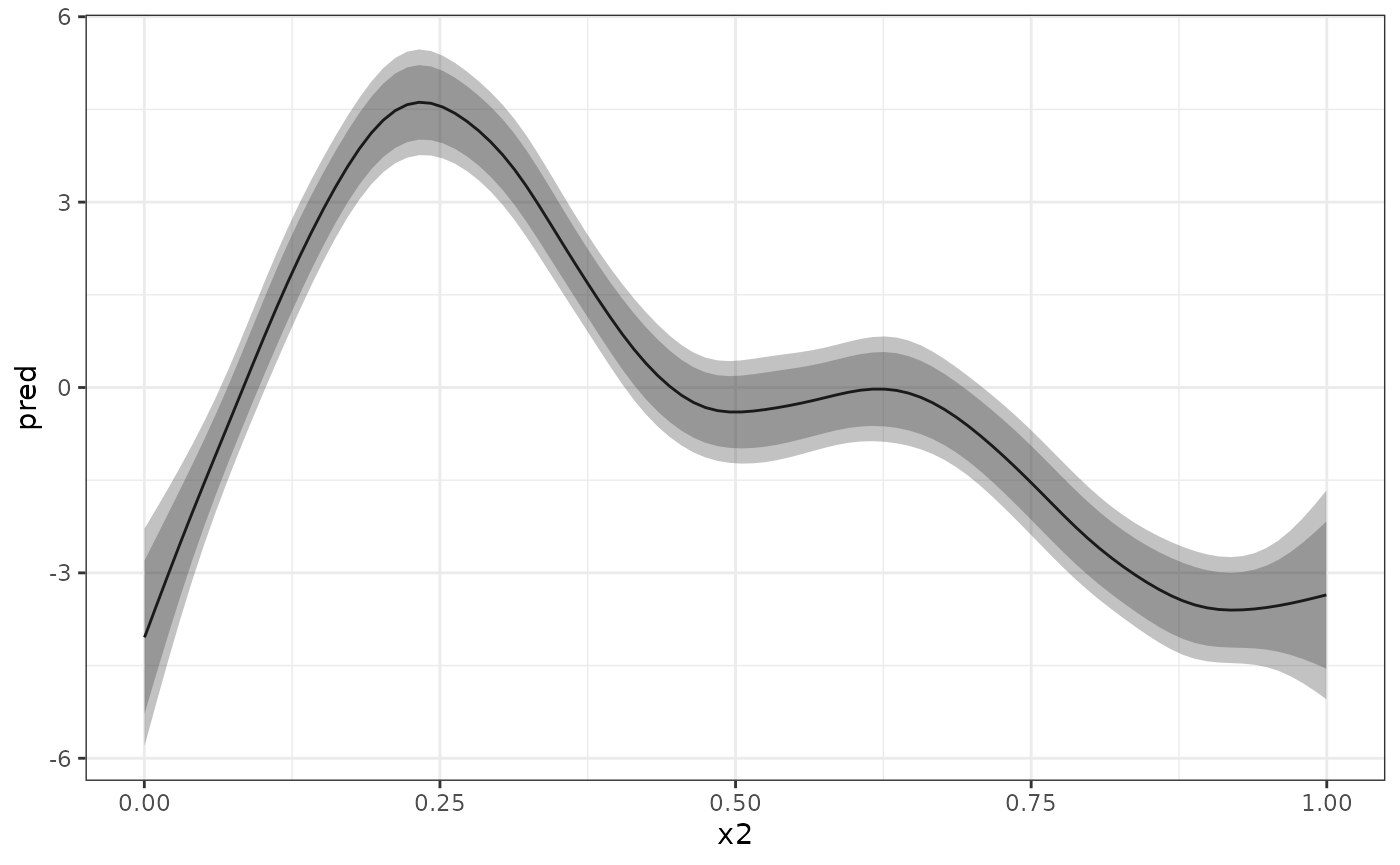
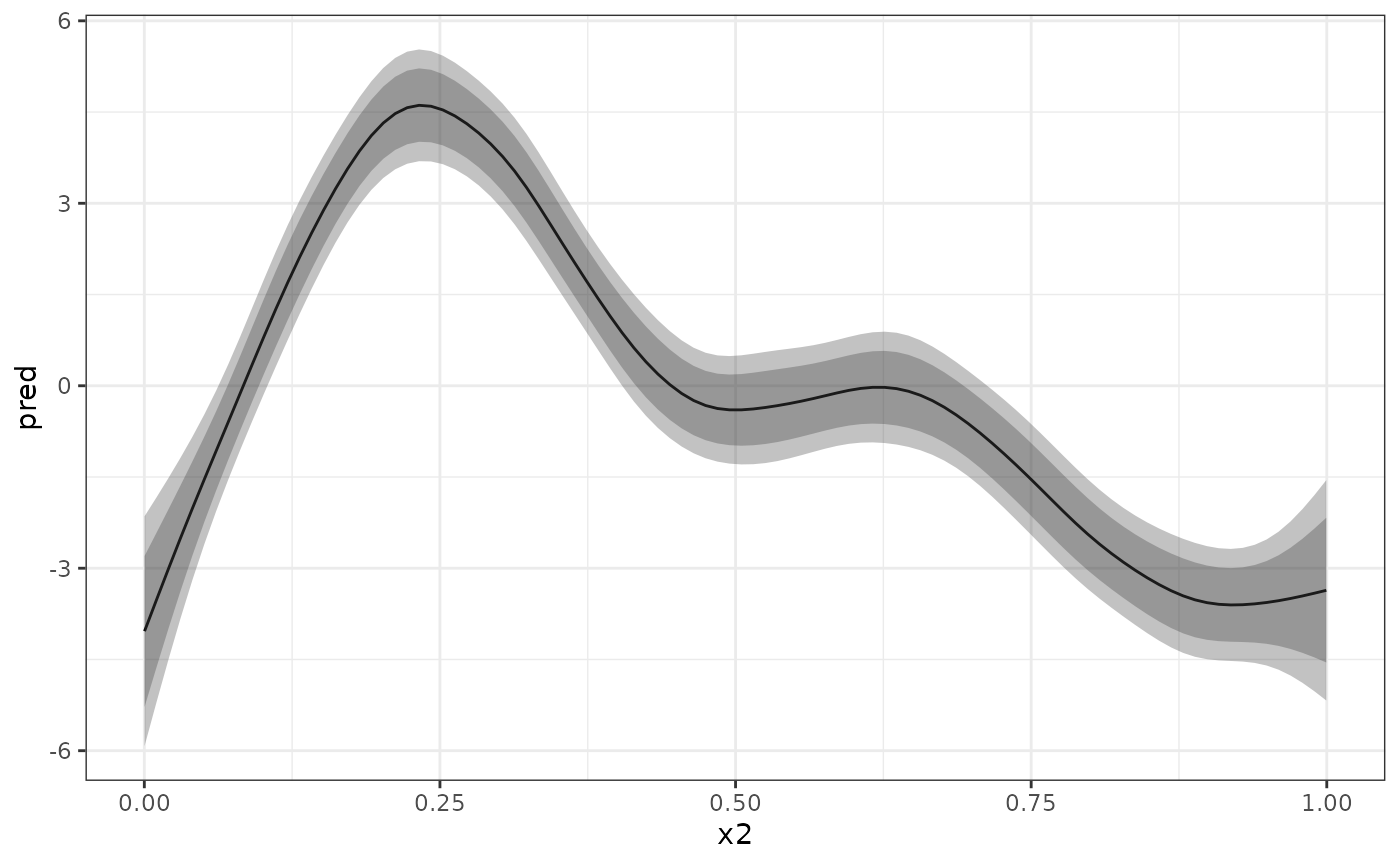
Built site for metagam: 0.3.1.9000@44d6e2a

diff --git a/reference/metagam.html b/reference/metagam.html
@@ -161,62 +161,70 @@
     <colgroup><col class="name" /><col class="desc" /></colgroup>
     <tr>
       <th>models</th>
-      <td><p>List of generalized additive models, each of which has been returned
-by <code><a href='strip_rawdata.html'>strip_rawdata</a></code>. If the list is named, the names will be used in the output.</p></td>
+      <td><p>List of generalized additive models, each of which has been
+returned by <code><a href='strip_rawdata.html'>strip_rawdata</a></code>. If the list is named, the names
+will be used in the output.</p></td>
     </tr>
     <tr>
       <th>grid</th>
-      <td><p>Grid of values of the explanatory variables over which to compute the
-estimated smooth terms. Defaults to <code>NULL</code>, which means that a grid is set up
-for the smooth terms defined by the <code>terms</code> argument, with length given by
-<code>grid_size</code> for numeric variables and a single value of each factor variable.</p></td>
+      <td><p>Grid of values of the explanatory variables over which to compute
+the estimated smooth terms. Defaults to <code>NULL</code>, which means that a
+grid is set up for the smooth terms defined by the <code>terms</code> argument,
+with length given by <code>grid_size</code> for numeric variables and a single
+value of each factor variable.</p></td>
     </tr>
     <tr>
       <th>grid_size</th>
-      <td><p>Numeric value giving the number of elements to use in the grid of explanatory
-variables when <code>grid=NULL</code>. When multiple terms are supplied, each combination of
-values of explanatory variables are generated, and the number of grid
-points becomes <code>grid_size</code> to the power of the number of terms.</p></td>
+      <td><p>Numeric value giving the number of elements to use in the
+grid of explanatory variables when <code>grid=NULL</code>. When multiple terms
+are supplied, each combination of values of explanatory variables are
+generated, and the number of grid points becomes <code>grid_size</code> to the
+power of the number of terms.</p></td>
     </tr>
     <tr>
       <th>type</th>
-      <td><p>Type of prediction to use. Defaults to <code>"iterms"</code>. Available options
-are <code>"iterms"</code>, <code>"link"</code>, and <code>"response"</code>. See the documentation
-of <code><a href='https://rdrr.io/pkg/mgcv/man/predict.gam.html'>mgcv::predict.gam</a></code> for details. Note that <code>type="terms"</code> is not supported,
-since it may result in estimated zero standard deviation for smooth terms.</p></td>
+      <td><p>Type of prediction to use. Defaults to <code>"iterms"</code>. Available
+options are <code>"iterms"</code>, <code>"link"</code>, and <code>"response"</code>. See the
+documentation of <code><a href='https://rdrr.io/pkg/mgcv/man/predict.gam.html'>mgcv::predict.gam</a></code> for details. Note that
+<code>type="terms"</code> is not supported, since it may result in estimated zero
+standard deviation for smooth terms.</p></td>
     </tr>
     <tr>
       <th>terms</th>
-      <td><p>Character vector of terms, smooth or parametric, to be included in function estimate.
-Only used if <code>type="iterms"</code>. Defaults to <code>NULL</code>, which means
-that the first smooth term when listed in alphabetic order is taken.</p></td>
+      <td><p>Character vector of terms, smooth or parametric, to be included
+in function estimate. Only used if <code>type="iterms"</code>. Defaults to
+<code>NULL</code>, which means that the first smooth term when listed in
+alphabetic order is taken.</p></td>
     </tr>
     <tr>
       <th>method</th>
-      <td><p>Method of meta analysis, passed on to <code><a href='https://wviechtb.github.io/metafor/reference/rma.uni.html'>metafor::rma.uni</a></code>. Defaults to <code>"FE"</code>. See the documentation to
-<code><a href='https://wviechtb.github.io/metafor/reference/rma.uni.html'>metafor::rma</a></code> for all available options.</p></td>
+      <td><p>Method of meta analysis, passed on to <code><a href='https://wviechtb.github.io/metafor/reference/rma.uni.html'>metafor::rma.uni</a></code>.
+Defaults to <code>"FE"</code>. See the documentation to <code><a href='https://wviechtb.github.io/metafor/reference/rma.uni.html'>metafor::rma</a></code> for
+all available options.</p></td>
     </tr>
     <tr>
       <th>nsim</th>
-      <td><p>Number of simulations to conduct in order to compute p-values and simultaneous
-confidence bands for the meta-analytic fit. Defaults to <code>NULL</code>, which means that no simulations
-are performed.</p></td>
+      <td><p>Number of simulations to conduct in order to compute p-values and
+simultaneous confidence bands for the meta-analytic fit. Defaults to
+<code>NULL</code>, which means that no simulations are performed.</p></td>
     </tr>
     <tr>
       <th>ci_alpha</th>
-      <td><p>Significance level for simultaneous confidence bands. Ignored if <code>nsim</code> is <code>NULL</code>, and defaults to 0.05.</p></td>
+      <td><p>Significance level for simultaneous confidence bands. Ignored
+if <code>nsim</code> is <code>NULL</code>, and defaults to 0.05.</p></td>
     </tr>
     <tr>
       <th>intercept</th>
-      <td><p>logical defining whether or not to include the intercept in each smooth
-term. Only applies when <code>type = "iterms"</code>.</p></td>
+      <td><p>Logical defining whether or not to include the intercept in
+each smooth term. Only applies when <code>type = "iterms"</code>.</p></td>
     </tr>
     <tr>
       <th>restrict_range</th>
-      <td><p>Character vector of explanatory variables to restrict such that only
-values within the range for each cohort contribute to the meta-analysis. Default to <code>NULL</code>,
-which means that each model contributes across the whole range specified by <code>grid</code>. Currently
-not implemented.</p></td>
+      <td><p>Character vector of explanatory variables to restrict
+such that only values within the range for each cohort contribute to the
+meta-analysis. Default to <code>NULL</code>, which means that each model
+contributes across the whole range specified by <code>grid</code>. Currently not
+implemented.</p></td>
     </tr>
     </table>
 
@@ -225,12 +233,13 @@ not implemented.</p></td>
     <p>An object of type metagam.</p>
     <h2 class="hasAnchor" id="details"><a class="anchor" href="#details"></a>Details</h2>
 
-    <p>It is currently assumed that all models have been fit with the same smooth terms,
-although they do not need to have the same basis functions or knot placement. Future versions
-will also include meta-analysis of parametric terms in the models.</p>
-<p>p-values are truncated below at 1e-16 before computing meta-analytic p-values
-to ensure that no values are identically zero, which would imply that the
-alternative hypothesis be true with no uncertainty.</p>
+    <p>It is currently assumed that all models have been fit with the same
+  smooth terms, although they do not need to have the same basis functions or
+  knot placement. Future versions will also include meta-analysis of
+  parametric terms in the models.</p>
+<p>p-values are truncated below at 1e-16 before computing meta-analytic
+  p-values to ensure that no values are identically zero, which would imply
+  that the alternative hypothesis be true with no uncertainty.</p>
 
     <h2 class="hasAnchor" id="examples"><a class="anchor" href="#examples"></a>Examples</h2>
     <pre class="examples"><span class='r-in'><span class='kw'><a href='https://rdrr.io/r/base/library.html'>library</a></span><span class='op'>(</span><span class='va'><a href='https://lifebrain.github.io/metagam/'>metagam</a></span><span class='op'>)</span></span>
@@ -272,7 +281,7 @@ alternative hypothesis be true with no uncertainty.</p>
 <span class='r-in'><span class='fu'><a href='https://rdrr.io/r/base/summary.html'>summary</a></span><span class='op'>(</span><span class='va'>meta_analysis</span><span class='op'>)</span></span>
 <span class='r-out co'><span class='r-pr'>#&gt;</span> Meta-analysis of GAMs from 5 cohorts, using method FE.</span>
 <span class='r-out co'><span class='r-pr'>#&gt;</span> </span>
-<span class='r-out co'><span class='r-pr'>#&gt;</span> Smooth terms analyzed: s(x0). P-value for smooth term: 0.0187 </span>
+<span class='r-out co'><span class='r-pr'>#&gt;</span> Smooth terms analyzed: s(x0). P-value for smooth term: 0.0782 </span>
 <span class='r-out co'><span class='r-pr'>#&gt;</span> </span>
 <span class='r-out co'><span class='r-pr'>#&gt;</span> </span>
 <span class='r-out co'><span class='r-pr'>#&gt;</span> </span>

diff --git a/news.html b/news.html
@@ -6,7 +6,7 @@
 <meta http-equiv="X-UA-Compatible" content="IE=edge">
 <meta name="viewport" content="width=device-width, initial-scale=1.0">
 
-<title>metagam version 0.3.1 • metagam</title>
+<title>metagam version 0.3.1.9000 • metagam</title>
 
 <!-- favicons -->
 <link rel="icon" type="image/png" sizes="16x16" href="favicon-16x16.png">
@@ -46,7 +46,7 @@
 
 
 
-<meta property="og:title" content="metagam version 0.3.1" />
+<meta property="og:title" content="metagam version 0.3.1.9000" />
 <meta property="og:image" content="/logo.png" />
 
 
@@ -133,12 +133,19 @@
 <div class="row">
   <div class="contents col-md-9">
     <div class="page-header">
-      <h1>metagam version 0.3.1</h1>
+      <h1>metagam version 0.3.1.9000</h1>
     </div>
 
 
-<div id="metagam-version-031" class="section level1">
+<div id="metagam-version-0319000" class="section level1">
 
+<ul>
+<li>Standard error of intercept is now included in simulations for p-values and simultaneous confidence intervals when type=“iterms”.</li>
+</ul>
+</div>
+<div id="metagam-version-031" class="section level1">
+<h1 class="hasAnchor">
+<a href="#metagam-version-031" class="anchor"></a>metagam version 0.3.1</h1>
 <ul>
 <li>‘knitr’ moved from Imports to Suggests.</li>
 </ul>

diff --git a/reference/getmasd.html b/reference/getmasd.html
@@ -143,7 +143,7 @@
     <p>This code is based on Dr. Gavin Simpson's blog post https://fromthebottomoftheheap.net/2016/12/15/simultaneous-interval-revisited/.</p>
     </div>
 
-    <pre class="usage"><span class='fu'>getmasd</span><span class='op'>(</span><span class='va'>mod</span>, <span class='va'>grid</span>, <span class='va'>nmc</span>, <span class='va'>terms</span><span class='op'>)</span></pre>
+    <pre class="usage"><span class='fu'>getmasd</span><span class='op'>(</span><span class='va'>mod</span>, <span class='va'>grid</span>, <span class='va'>nmc</span>, <span class='va'>terms</span>, intercept_se <span class='op'>=</span> <span class='cn'>FALSE</span><span class='op'>)</span></pre>
 
     <h2 class="hasAnchor" id="arguments"><a class="anchor" href="#arguments"></a>Arguments</h2>
     <table class="ref-arguments">
@@ -163,6 +163,11 @@
     <tr>
       <th>terms</th>
       <td><p>Character vector of smooth terms.</p></td>
+    </tr>
+    <tr>
+      <th>intercept_se</th>
+      <td><p>Logical defining whether to include the squared standard deviation of the intercept in the
+covariance matrix for the smooth term. Defaults to <code>FALSE</code>.</p></td>
     </tr>
     </table>
 

diff --git a/reference/plot.metagam.html b/reference/plot.metagam.html
@@ -207,7 +207,7 @@ univariate or bivariate. It also works for alternatively meta-analysis of respon
 <span class='r-in'><span class='fu'><a href='https://rdrr.io/r/base/summary.html'>summary</a></span><span class='op'>(</span><span class='va'>meta_analysis</span><span class='op'>)</span></span>
 <span class='r-out co'><span class='r-pr'>#&gt;</span> Meta-analysis of GAMs from 5 cohorts, using method FE.</span>
 <span class='r-out co'><span class='r-pr'>#&gt;</span> </span>
-<span class='r-out co'><span class='r-pr'>#&gt;</span> Smooth terms analyzed: s(x0). P-value for smooth term: 0.0187 </span>
+<span class='r-out co'><span class='r-pr'>#&gt;</span> Smooth terms analyzed: s(x0). P-value for smooth term: 0.0782 </span>
 <span class='r-out co'><span class='r-pr'>#&gt;</span> </span>
 <span class='r-out co'><span class='r-pr'>#&gt;</span> </span>
 <span class='r-out co'><span class='r-pr'>#&gt;</span> </span>

diff --git a/reference/strip_rawdata.html b/reference/strip_rawdata.html
@@ -243,7 +243,7 @@ method to work. Future updates to this package will fix this.</p>
 <span class='r-in'><span class='fu'><a href='https://rdrr.io/r/base/summary.html'>summary</a></span><span class='op'>(</span><span class='va'>meta_analysis</span><span class='op'>)</span></span>
 <span class='r-out co'><span class='r-pr'>#&gt;</span> Meta-analysis of GAMs from 5 cohorts, using method FE.</span>
 <span class='r-out co'><span class='r-pr'>#&gt;</span> </span>
-<span class='r-out co'><span class='r-pr'>#&gt;</span> Smooth terms analyzed: s(x0). P-value for smooth term: 0.0187 </span>
+<span class='r-out co'><span class='r-pr'>#&gt;</span> Smooth terms analyzed: s(x0). P-value for smooth term: 0.0782 </span>
 <span class='r-out co'><span class='r-pr'>#&gt;</span> </span>
 <span class='r-out co'><span class='r-pr'>#&gt;</span> </span>
 <span class='r-out co'><span class='r-pr'>#&gt;</span> </span>
